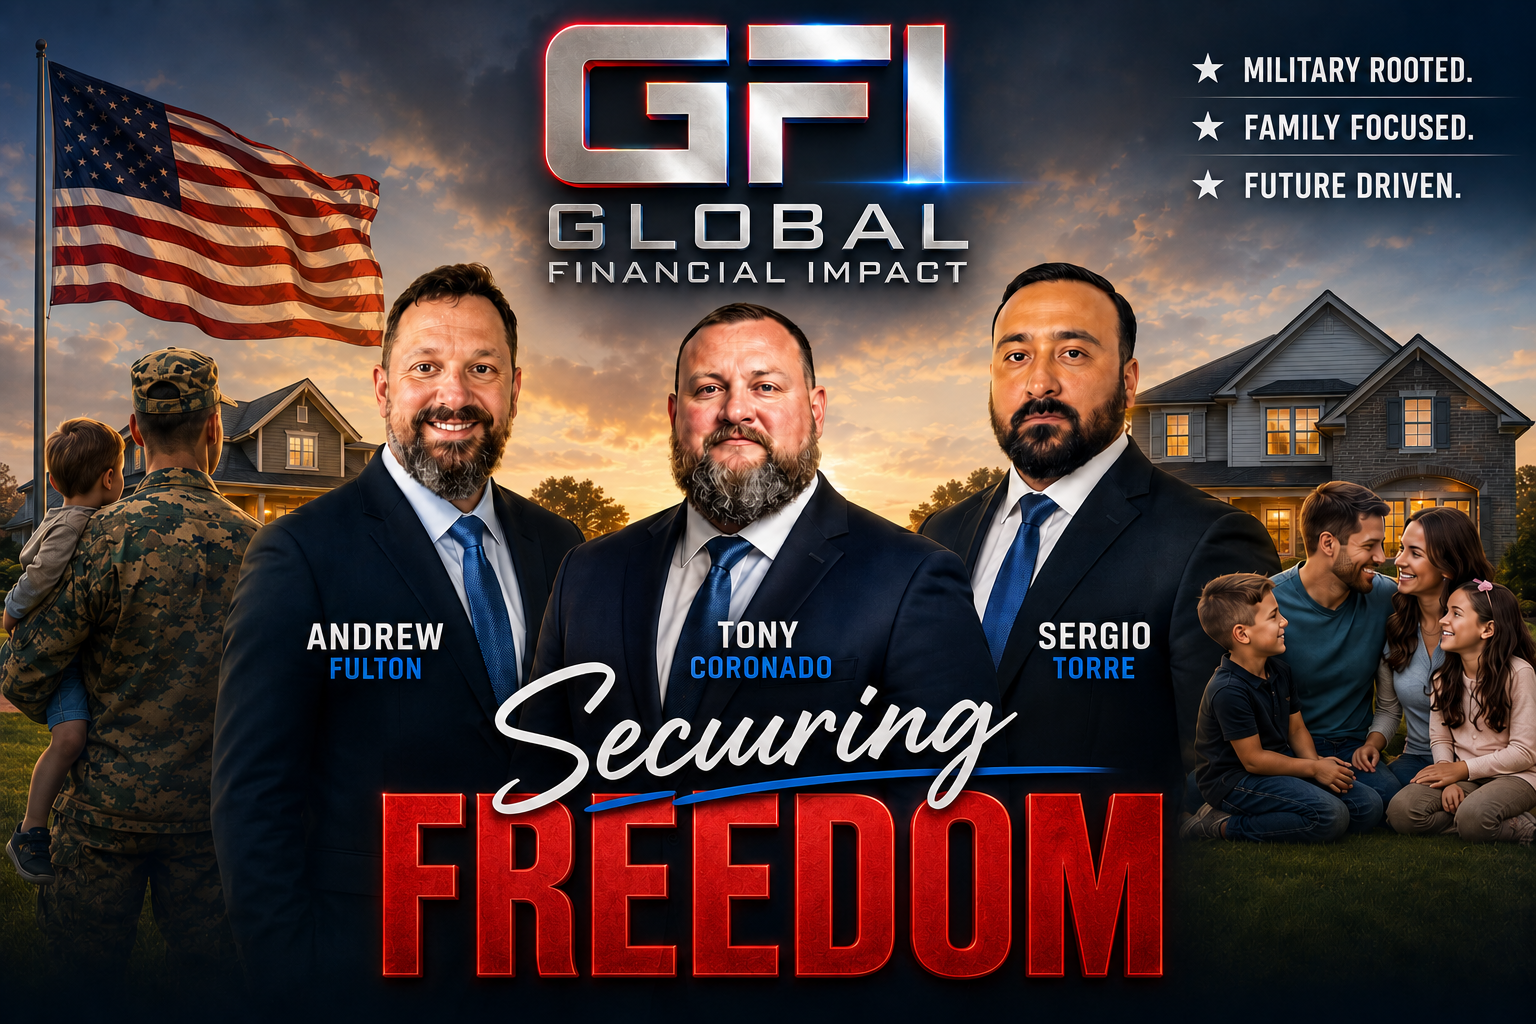
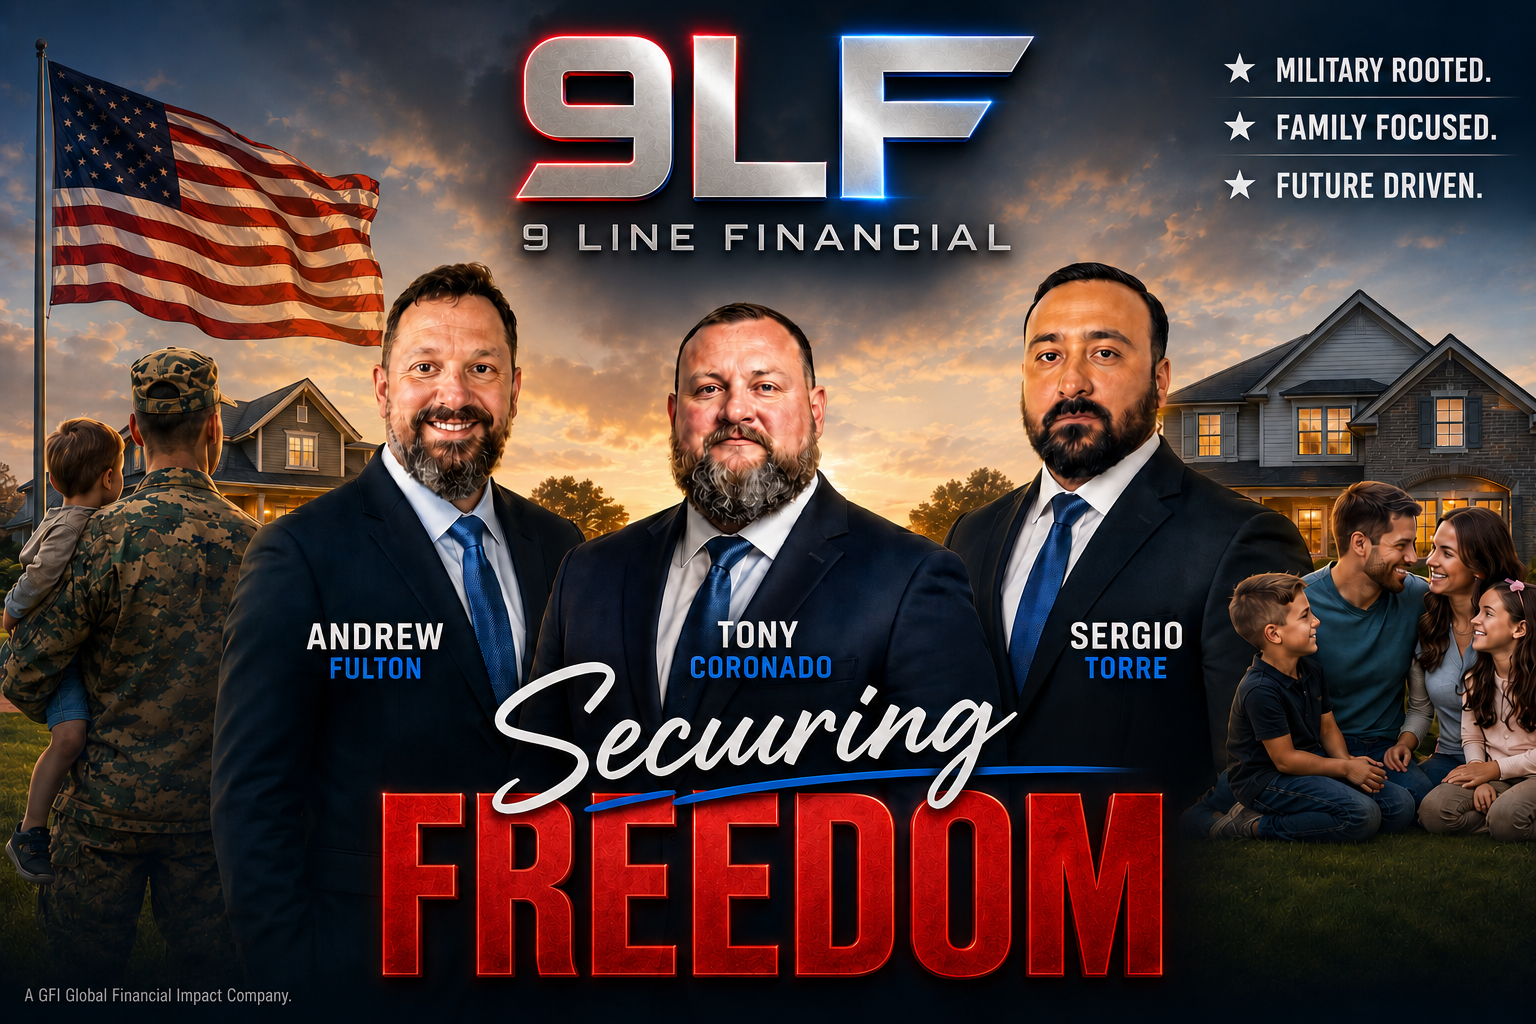
Add files via upload

diff --git a/index.html b/index.html
@@ -30,7 +30,7 @@
 </div>
 
 <section class="hero-banner">
-  <img src="hero-freedom.png" alt="GFI Global Financial Impact — Andrew Fulton, Tony Coronado, Sergio Torre. Military rooted. Family focused. Future driven. Securing Freedom.">
+  <img src="hero-freedom.png" alt="9LF — 9 Line Financial, a GFI Global Financial Impact Company. Andrew Fulton, Tony Coronado, Sergio Torre. Military rooted. Family focused. Future driven. Securing Freedom.">
 </section>
 
 <div class="ticker-wrap">
